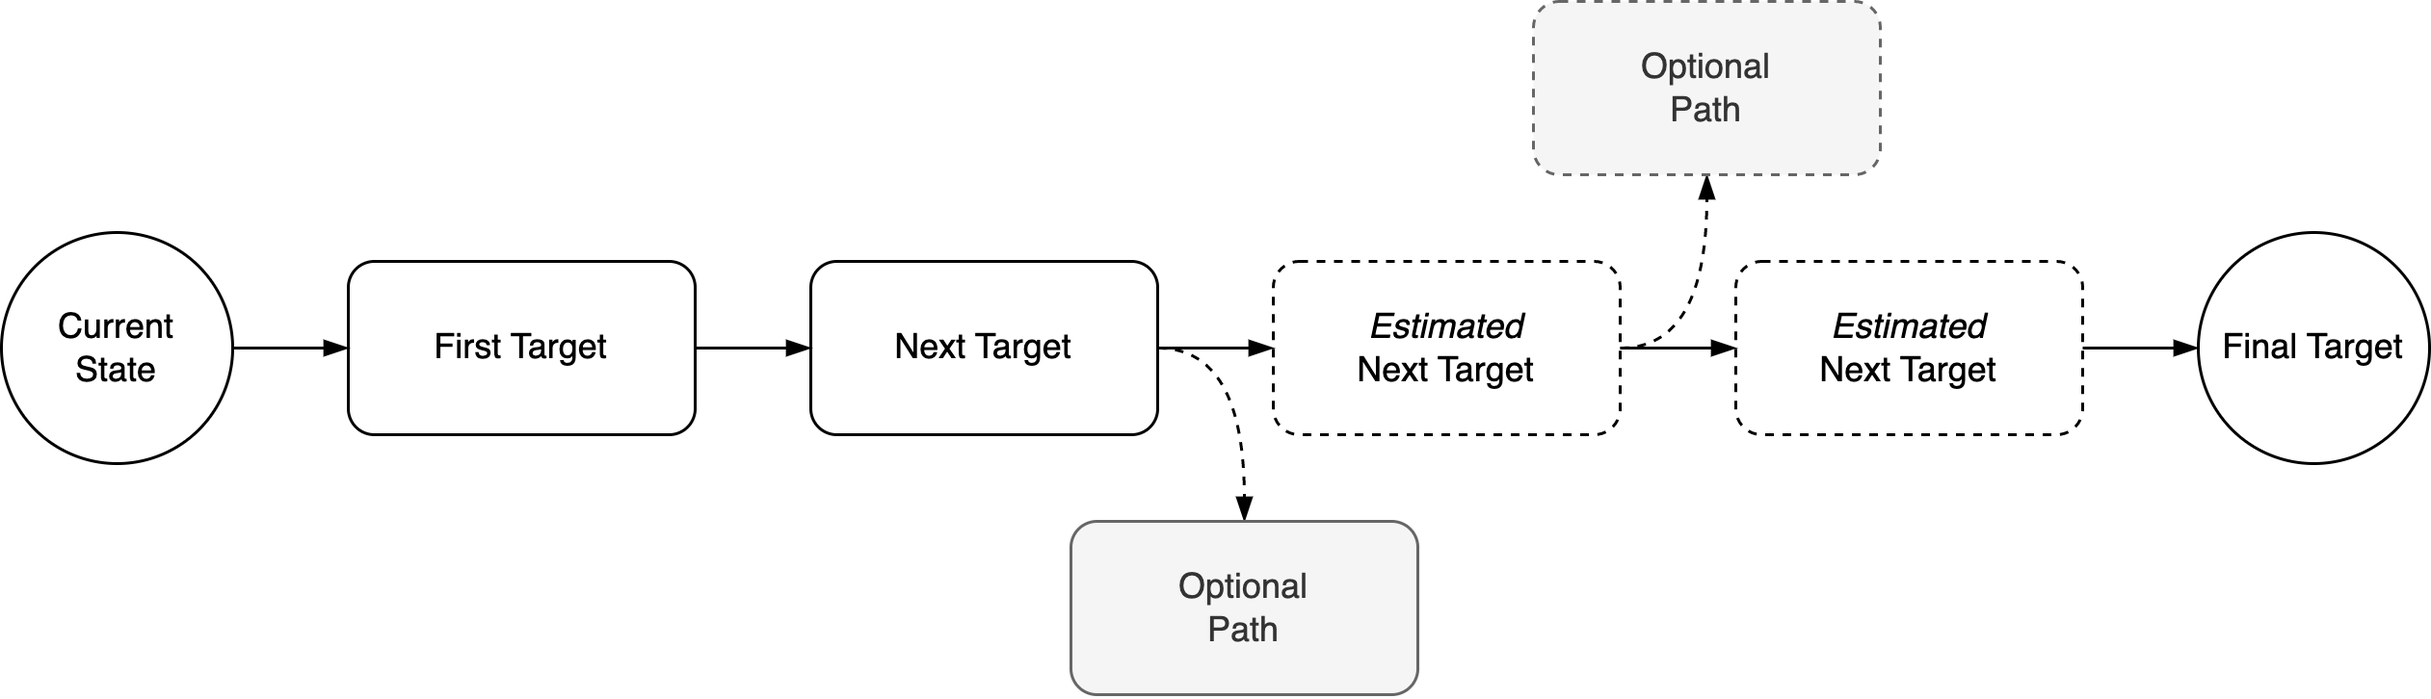
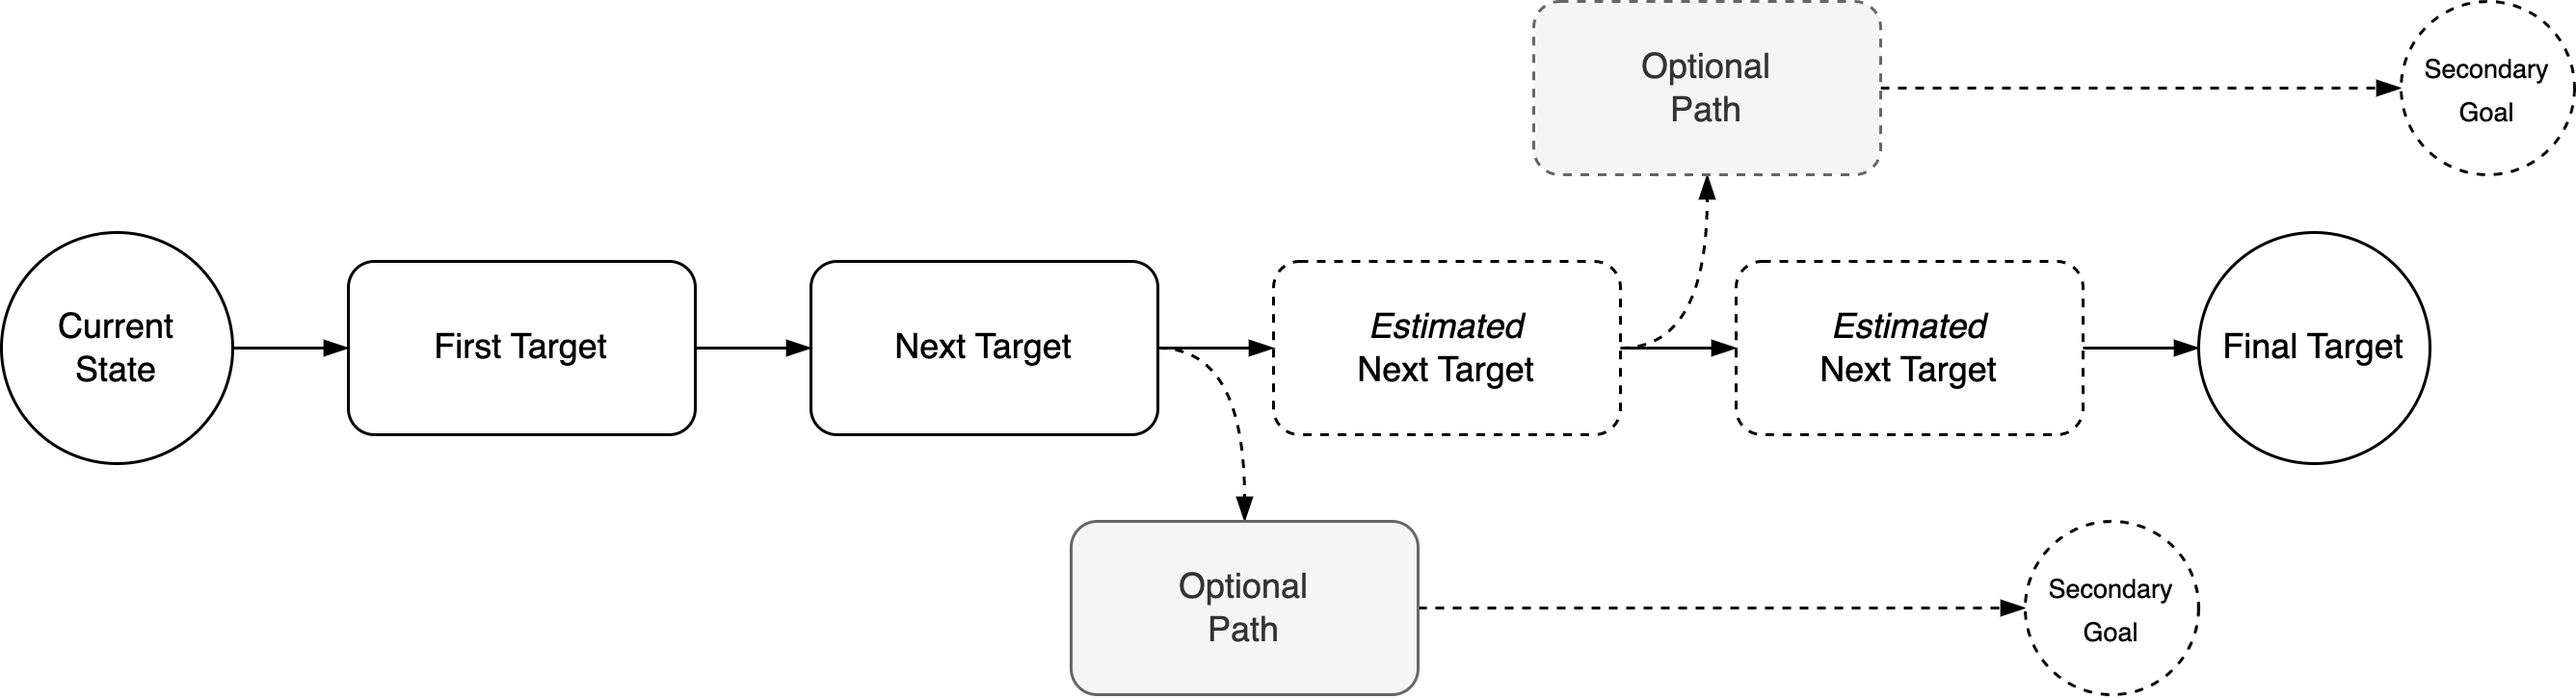
update goal imgs

diff --git a/goals-planning-strategy.md b/goals-planning-strategy.md
@@ -137,7 +137,7 @@ A hierarchy of targets that is updated every quarter.
 
 Format for a pitch:
 
-1. Start with the **main** goal.
+1. Start with the **main** goal. Ensure that there is agreement on the end-result.
 2. Add the **path** to reach it. The steps can represent e.g. initiatives or full releases. Cover the earlier steps in detail. Leave later steps abstract if possible.
 3. Emphasize the flexibility of the plan by highlighting secondary **options**. Show optional paths that could be taken in case of changes to the environment.
 
@@ -299,6 +299,8 @@ Different ways to set goals
 - B. Next target state, which will help towards Y and Z.
 - Y. Required objective for Z.
 - Z. North star goal
+
+
 
 <img src="img/setting-goals.png" alt="seq-par-chain" style="width:80%;" />
 
